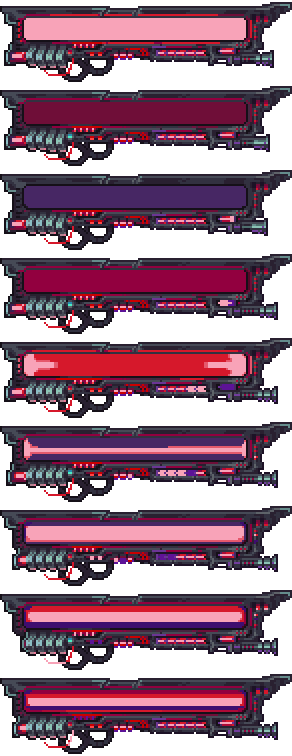
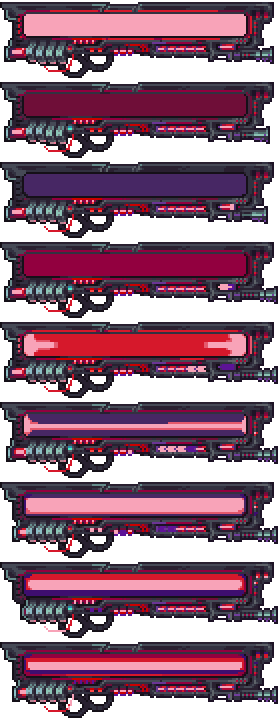
完成鬼妖UI重做

diff --git a/Content/UIs/MuraChargeUI.cs b/Content/UIs/MuraChargeUI.cs
@@ -14,21 +14,22 @@ namespace CalamityOverhaul.Content.UIs
 {
     internal class MuraChargeUI : UIHandle, ICWRLoader
     {
-        internal enum MuraStyleEnum
+        internal enum MuraUIStyleEnum
         {
-            delicacy_HasMK_overhead = 1,
-            delicacy_NoMK_overhead,
-            delicacy_HasMK_compact,
-            delicacy_NoMK_compact,
+            delicacy_overhead = 1,
+            delicacy_compact,
             classical_overhead,
             classical_compact,
+        }
+        internal enum MuraPosStyleEnum
+        {
+            right = 1,
+            left,
+            high,
         }
         internal static MuraChargeUI Instance;
         internal MurasamaHeldProj murasamaHeld;
         internal Item murasama => Main.LocalPlayer.GetItem();
-        private bool compact => MuraStyle == MuraStyleEnum.delicacy_HasMK_compact
-                || MuraStyle == MuraStyleEnum.delicacy_NoMK_compact
-                || MuraStyle == MuraStyleEnum.classical_compact;
         private static Asset<Texture2D> classical_SwordStanceTop;
         private static Asset<Texture2D> classical_SwordStanceFull;
         private static Asset<Texture2D> classical_SwordStanceBottom;
@@ -47,22 +48,16 @@ namespace CalamityOverhaul.Content.UIs
         private static float newForCharge;
         private static int Time;
         private static Color fullColor;
-        internal MuraStyleEnum MuraStyle => (MuraStyleEnum)CWRServerConfig.Instance.MuraStyleType;
+        internal MuraUIStyleEnum MuraUIStyle => (MuraUIStyleEnum)CWRServerConfig.Instance.MuraUIStyleType;
+        internal MuraPosStyleEnum MuraPosStyle => (MuraPosStyleEnum)CWRServerConfig.Instance.MuraPosStyleType;
         internal Vector2 origMuraBarDrawPos => new Vector2(180, Main.screenHeight - 40);
         internal Vector2 muraBarDrawPos;
-        internal Vector2 CartridgeUI_Offset {
-            get {
-                Vector2 offset = new Vector2(CWRServerConfig.Instance.CartridgeUI_Offset_X_Value
-                , -CWRServerConfig.Instance.CartridgeUI_Offset_Y_Value);
-                if (offset.X > 1400) {
-                    offset.X = 1400;
-                }
-                return offset;
-            }
-        }
+        private bool compact => MuraUIStyle == MuraUIStyleEnum.delicacy_compact || MuraUIStyle == MuraUIStyleEnum.classical_compact;
+        internal bool dontAddUIAlape => 
+            murasamaHeld == null || murasamaHeld.Type != ModContent.ProjectileType<MurasamaHeldProj>() || Main.playerInventory;
         public override bool Active {
             get {
-                if (murasamaHeld == null || murasamaHeld.Type != ModContent.ProjectileType<MurasamaHeldProj>()) {
+                if (dontAddUIAlape) {
                     if (uiAlape > 0) {
                         uiAlape -= 0.05f;
                     }
@@ -109,7 +104,7 @@ namespace CalamityOverhaul.Content.UIs
                 return;
             }
 
-            if (uiAlape < 1) {
+            if (uiAlape < 1 && !dontAddUIAlape) {
                 uiAlape += 0.05f;
             }
 
@@ -146,12 +141,12 @@ namespace CalamityOverhaul.Content.UIs
                 if (risingDragon < MurasamaEcType.GetOnRDCD) {
                     Rectangle frameCrop = new Rectangle(0, 0, (int)(risingDragon / MurasamaEcType.GetOnRDCD * barFG.Width), barFG.Height);
                     Main.spriteBatch.Draw(barBG, drawPos, null, color, 0f, barOrigin, scale, 0, 0f);
-                    Main.spriteBatch.Draw(barFG, drawPos + new Vector2(12, 42), frameCrop, color * 0.8f, 0f, barOrigin, scale, 0, 0f);
+                    Main.spriteBatch.Draw(barFG, drawPos + new Vector2(4, 6), frameCrop, color * 0.8f, 0f, barOrigin, scale, 0, 0f);
                 }
                 else {
                     barBG = MuraBarFull.Value;
                     Rectangle rectangle = CWRUtils.GetRec(barBG, uiFrame, maxFrame);
-                    Main.spriteBatch.Draw(barBG, drawPos
+                    Main.spriteBatch.Draw(barBG, drawPos + new Vector2(0, -3)
                         , rectangle, color, 0f, rectangle.Size() / 2, scale, 0, 0f);
                 }
             }
@@ -163,13 +158,21 @@ namespace CalamityOverhaul.Content.UIs
                 return;
             }
 
-            muraBarDrawPos = origMuraBarDrawPos + CartridgeUI_Offset;
+            Vector2 otherOffset = new Vector2(Main.screenWidth - SwordStanceBottom.Width() - 40, 0);
+            if (MuraPosStyle == MuraPosStyleEnum.left) {
+                otherOffset = new Vector2(80, 0);
+            }
+            else if (MuraPosStyle == MuraPosStyleEnum.high) {
+                otherOffset = new Vector2(Main.screenWidth / 3 * 2, -Main.screenHeight + 180);
+            }
+            muraBarDrawPos = origMuraBarDrawPos + otherOffset;
+
             Color color = Color.White * uiAlape;
             Vector2 topBarOffset = new Vector2(18, 12);
             Texture2D barBG = SwordStanceBottom.Value;
             Texture2D barFG = SwordStanceTop.Value;
             Texture2D fullFG = SwordStanceFull.Value;
-            if (MuraStyle == MuraStyleEnum.classical_overhead || MuraStyle == MuraStyleEnum.classical_compact) {
+            if (MuraUIStyle == MuraUIStyleEnum.classical_overhead || MuraUIStyle == MuraUIStyleEnum.classical_compact) {
                 topBarOffset = new Vector2(46, 6);
                 barBG = classical_SwordStanceBottom.Value;
                 barFG = classical_SwordStanceTop.Value;
@@ -178,8 +181,8 @@ namespace CalamityOverhaul.Content.UIs
 
             Vector2 barOrigin = barBG.Size() * 0.5f;
 
-            if (MuraStyle == MuraStyleEnum.delicacy_HasMK_overhead || MuraStyle == MuraStyleEnum.delicacy_HasMK_compact) {
-                Main.spriteBatch.Draw(Mura.Value, muraBarDrawPos + new Vector2(0, -138), null, color, 0f, barOrigin, scale, 0, 0f);
+            if (InWorldBossPhase.Instance.Mura_Level() == 14 || MurasamaEcType.NameIsSam(Main.LocalPlayer)) {
+                Main.spriteBatch.Draw(Mura.Value, muraBarDrawPos + new Vector2(-110, -88), null, color, 0f, barOrigin, scale, 0, 0f);
             }
 
             if (charge < 9) {
@@ -202,16 +205,16 @@ namespace CalamityOverhaul.Content.UIs
                     Texture2D muraBarBottom = MuraBarBottom.Value;
                     Texture2D muraBarTop = MuraBarTop.Value;
                     Vector2 barOrigin2 = muraBarBottom.Size() * 0.5f;
-                    Vector2 drawPos = muraBarDrawPos + new Vector2(-20, -50);
+                    Vector2 drawPos = muraBarDrawPos + new Vector2(-20, -40);
                     if (risingDragon < MurasamaEcType.GetOnRDCD) {
                         Rectangle frameCrop = new Rectangle(0, 0, (int)(risingDragon / MurasamaEcType.GetOnRDCD * muraBarTop.Width), muraBarTop.Height);
                         Main.spriteBatch.Draw(muraBarBottom, drawPos, null, color, 0f, barOrigin2, scale, 0, 0f);
-                        Main.spriteBatch.Draw(muraBarTop, drawPos + new Vector2(12, 42), frameCrop, color * 0.8f, 0f, barOrigin2, scale, 0, 0f);
+                        Main.spriteBatch.Draw(muraBarTop, drawPos + new Vector2(4, 6), frameCrop, color * 0.8f, 0f, barOrigin2, scale, 0, 0f);
                     }
                     else {
                         muraBarBottom = MuraBarFull.Value;
                         Rectangle rectangle = CWRUtils.GetRec(muraBarBottom, uiFrame, 6);
-                        Main.spriteBatch.Draw(muraBarBottom, drawPos
+                        Main.spriteBatch.Draw(muraBarBottom, drawPos + new Vector2(0, -3)
                             , rectangle, color, 0f, rectangle.Size() / 2, scale, 0, 0f);
                     }
                 }

diff --git a/Content/Items/Melee/Extras/RebelBlade.cs b/Content/Items/Melee/Extras/RebelBlade.cs
@@ -2,12 +2,16 @@
 using CalamityOverhaul.Content.Projectiles.Weapons.Melee.Core;
 using CalamityOverhaul.Content.Projectiles.Weapons.Melee.RebelBladeProj;
 using Terraria;
+using Terraria.Audio;
 using Terraria.DataStructures;
 using Terraria.ID;
 using Terraria.ModLoader;
 
 namespace CalamityOverhaul.Content.Items.Melee.Extras
 {
+    /// <summary>
+    /// 叛逆之刃
+    /// </summary>
     internal class RebelBlade : ModItem
     {
         public override string Texture => CWRConstant.Item_Melee + "RebelBlade";
@@ -16,13 +20,13 @@ namespace CalamityOverhaul.Content.Items.Melee.Extras
             Item.shootSpeed = 9;
             Item.crit = 8;
             Item.damage = 186;
-            Item.useTime = 15;
+            Item.useTime = 30;
             Item.useAnimation = 15;
             Item.knockBack = 6;
             Item.value = Item.buyPrice(0, 83, 55, 0);
             Item.rare = ItemRarityID.Lime;
             Item.useStyle = ItemUseStyleID.Swing;
-            Item.UseSound = SoundID.Item1;
+            Item.UseSound = null;
             Item.DamageType = ModContent.GetInstance<TrueMeleeDamageClass>();
             Item.shoot = ModContent.ProjectileType<RebelBladeFlyAttcke>();
             Item.useTurn = true;
@@ -87,50 +91,54 @@ namespace CalamityOverhaul.Content.Items.Melee.Extras
         public override int TargetID => ModContent.ItemType<RebelBlade>();
         public override string trailTexturePath => CWRConstant.Masking + "MotionTrail2";
         public override string gradientTexturePath => CWRConstant.ColorBar + "RebelBlade_Bar";
+        private bool onSound;
         public override void SetKnifeProperty() {
             canDrawSlashTrail = true;
             distanceToOwner = -20;
             drawTrailBtommWidth = 110;
-            drawTrailTopWidth = 150;
+            drawTrailTopWidth = 130;
             drawTrailCount = 6;
             Length = 200;
             unitOffsetDrawZkMode = 0;
             Projectile.width = Projectile.height = 186;
             distanceToOwner = -60;
-            SwingData.starArg = 60;
+            SwingData.starArg = 30;
             SwingData.ler1_UpLengthSengs = 0.05f;
             SwingData.minClampLength = 200;
             SwingData.maxClampLength = 210;
             SwingData.ler1_UpSizeSengs = 0.016f;
             SwingData.baseSwingSpeed = 4.2f;
             ShootSpeed = 12;
-            maxSwingTime = 60;
         }
 
         public override bool PreInOwnerUpdate() {
             if (Time == 0) {
-                OtherMeleeSize = 0.64f;
+                OtherMeleeSize = 0.84f;
             }
             float swingUp = SetSwingSpeed(1f);
-            int time1 = (int)(maxSwingTime / 3 * updateCount * swingUp);
+            int time1 = (int)(maxSwingTime / 2 * updateCount * swingUp);
             int time2 = (int)(maxSwingTime * 0.6f * updateCount * swingUp);
             if (Time > time1) {
+                if (!onSound) {
+                    SoundEngine.PlaySound(SoundID.Item71 with { Pitch = -0.6f }, Owner.Center);
+                    onSound = true;
+                }
                 canDrawSlashTrail = true;
-                SwingData.baseSwingSpeed = 6.2f;
+                SwingData.baseSwingSpeed = 3.2f;
                 if (Time == time1 + 1) {
                     speed = MathHelper.ToRadians(SwingData.baseSwingSpeed) / swingUp;
                 }
             }
             else {
-                OtherMeleeSize += 0.01f;
-                SwingData.baseSwingSpeed = 1f;
+                OtherMeleeSize += 0.002f;
+                SwingData.baseSwingSpeed = -0.4f;
                 speed = MathHelper.ToRadians(SwingData.baseSwingSpeed) / swingUp;
                 canDrawSlashTrail = false;
             }
 
             if (Time > time2) {
-                OtherMeleeSize -= 0.004f;
-                SwingData.baseSwingSpeed = 8f;
+                OtherMeleeSize -= 0.002f;
+                SwingData.baseSwingSpeed = 6f;
                 if (Time == time2 + 1) {
                     speed = MathHelper.ToRadians(SwingData.baseSwingSpeed) / swingUp;
                 }
@@ -140,7 +148,7 @@ namespace CalamityOverhaul.Content.Items.Melee.Extras
 
         public override void MeleeEffect() {
             Dust dust = Dust.NewDustDirect(Projectile.position, Projectile.width, Projectile.height
-                , DustID.FireworkFountain_Yellow, 0, 0, 55);
+                , DustID.FireworkFountain_Blue, 0, 0, 55);
             dust.noGravity = true;
         }
 

diff --git a/Common/CWRServerConfig.cs b/Common/CWRServerConfig.cs
@@ -28,9 +28,12 @@ namespace CalamityOverhaul.Common
             public static float LoadingAA_VolumeValue;
             internal const int LoadingAA_Volume_MinValue = 0;
             internal const int LoadingAA_Volume_MaxValue = 800;
-            internal const int MuraUIStyleMaxType = 6;
+            internal const int MuraUIStyleMaxType = 4;
             internal const int MuraUIStyleMinType = 1;
             public static int MuraUIStyleValue;
+            internal const int MuraPosStyleMaxType = 3;
+            internal const int MuraPosStyleMinType = 1;
+            public static int MuraPosStyleValue;
         }
 
         [Header("CWRSystem")]
@@ -131,7 +134,7 @@ namespace CalamityOverhaul.Common
         [SliderColor(224, 165, 56, 255)]
         [Range(Date.MuraUIStyleMinType, Date.MuraUIStyleMaxType)]
         [DefaultValue(1)]
-        public int MuraStyleType {
+        public int MuraUIStyleType {
             get {
                 if (Date.MuraUIStyleValue < Date.MuraUIStyleMinType) {
                     Date.MuraUIStyleValue = Date.MuraUIStyleMinType;
@@ -142,6 +145,23 @@ namespace CalamityOverhaul.Common
                 return Date.MuraUIStyleValue;
             }
             set => Date.MuraUIStyleValue = value;
+        }
+
+        [BackgroundColor(45, 175, 225, 255)]
+        [SliderColor(224, 165, 56, 255)]
+        [Range(Date.MuraPosStyleMinType, Date.MuraPosStyleMaxType)]
+        [DefaultValue(1)]
+        public int MuraPosStyleType {
+            get {
+                if (Date.MuraPosStyleValue < Date.MuraPosStyleMinType) {
+                    Date.MuraPosStyleValue = Date.MuraPosStyleMinType;
+                }
+                if (Date.MuraPosStyleValue > Date.MuraPosStyleMaxType) {
+                    Date.MuraPosStyleValue = Date.MuraPosStyleMaxType;
+                }
+                return Date.MuraPosStyleValue;
+            }
+            set => Date.MuraPosStyleValue = value;
         }
 
         [BackgroundColor(45, 175, 225, 255)]
